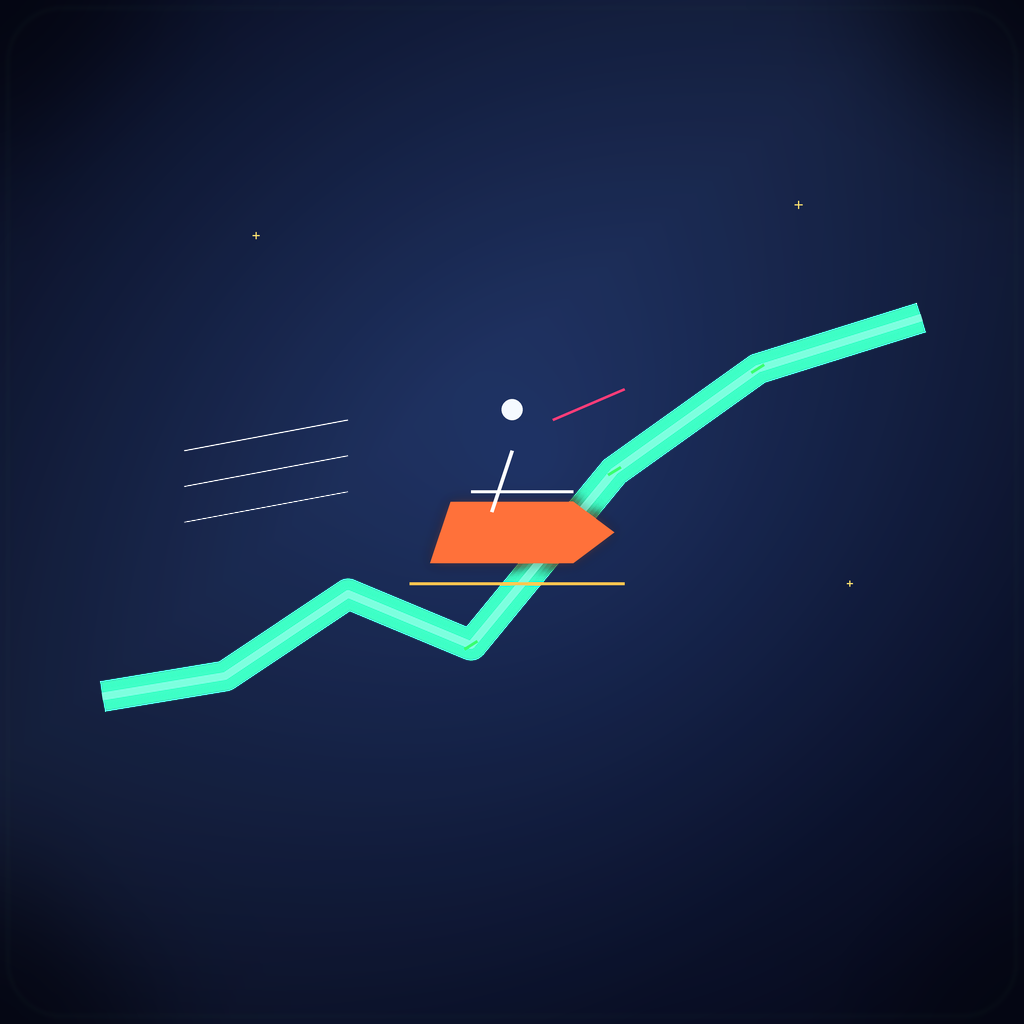
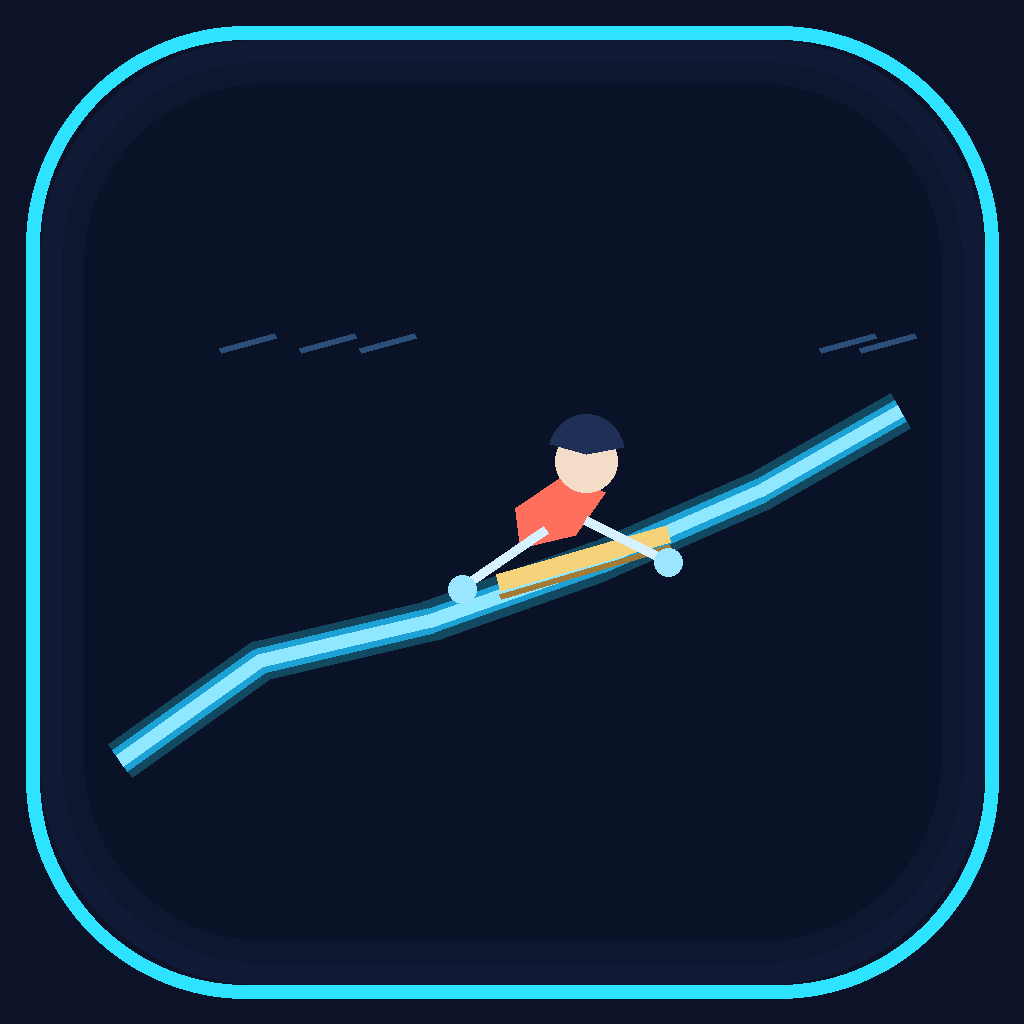
feat: add stalled-out fail state and refresh rider presentation
- Add 3-second grounded stall detection with 'Stalled Out!' message
- Expand rider sprite rendering with more explicit character silhouettes
- Reduce blob-like fallback appearance across the character roster
- Refresh app icon to show rider visibly riding the line

diff --git a/App.js b/App.js
@@ -36,6 +36,8 @@ const MINIMAP_W = 128;
 const MINIMAP_H = 92;
 const EDGE_PAN_MARGIN = 84;
 const EDGE_PAN_SPEED = 13;
+const STALL_SPEED_THRESHOLD = 0.16;
+const STALL_MILLISECONDS = 3000;
 
 const RIDER_TYPES = [
   {
@@ -336,6 +338,30 @@ function renderCharacterSprite(riderTypeId, cfg, motion = {}) {
           </G>
         </G>
       );
+    case 'snowboarder':
+      return (
+        <G>
+          <Line x1={-14} y1={7 + bob * 0.45} x2={14} y2={6.2 - bob * 0.2} stroke="#d6f5ff" strokeWidth={2.4} strokeLinecap="round" />
+          <G translateY={-bob * 0.75}>
+            <Path d="M-8,2 L8,3 L7,-3 L-7,-4 Z" fill={primary} />
+            <Circle cx={0} cy={-10} r={4.1} fill="#f2d8c1" />
+            <Path d="M-3,-13 C-1,-15 3,-15 5,-12" stroke="#2b3548" strokeWidth={1.9} fill="none" />
+            <Line x1={-5} y1={-1} x2={-11 + sway} y2={3} stroke={accent} strokeWidth={1.6} />
+            <Line x1={5} y1={-1} x2={11 - sway} y2={3} stroke={accent} strokeWidth={1.6} />
+          </G>
+        </G>
+      );
+    case 'sled':
+      return (
+        <G>
+          <Path d="M-14,8 C-11,4 1,3 14,6" stroke="#f8d480" strokeWidth={2.2} fill="none" />
+          <G translateY={-bob * 0.62}>
+            <Path d="M-10,4 C-7,1 2,1 10,2 C9,5 3,7 -8,8 Z" fill={primary} />
+            <Circle cx={-9} cy={2.4} r={2.4} fill="#f1d6bf" />
+            <Line x1={-3} y1={4} x2={8 - sway * 0.4} y2={6} stroke={accent} strokeWidth={1.6} />
+          </G>
+        </G>
+      );
     case 'comet':
       return (
         <G>
@@ -353,15 +379,14 @@ function renderCharacterSprite(riderTypeId, cfg, motion = {}) {
     case 'blaze':
       return (
         <G>
-          <Line x1={-15} y1={7.5} x2={14} y2={7.5} stroke="#8a8f98" strokeWidth={2.6} strokeLinecap="round" />
-          <Rect x={-12.5} y={4.4} width={5.5} height={3.2} rx={1.2} fill="#4d525b" />
-          <Rect x={8.3} y={4.4} width={4.2} height={3.2} rx={1.1} fill="#4d525b" />
-          <G translateY={-(suspension + bob * 0.3)}>
-            <Path d="M-15,5 L-6,-2 L8,-2 L14,3 L10,6 L-13,6 Z" fill="#1f2430" />
-            <Path d="M-3,-6 L5,-6 L9,-2 L-2,-2 Z" fill={primary} />
-            <Circle cx={0} cy={-10.5} r={4.3} fill="#f2d5bd" />
-            <Path d="M-2,-13 C0,-15 3,-15 5,-13" stroke="#2f3238" strokeWidth={2} fill="none" />
-            <Line x1={4} y1={-7} x2={10 - sway * 0.4} y2={-4 + airTilt * 0.2} stroke={accent} strokeWidth={1.7} />
+          <Line x1={-14} y1={6 + bob * 0.35} x2={15} y2={6 - bob * 0.18} stroke="#d0ae72" strokeWidth={2.2} strokeLinecap="round" />
+          <Line x1={-13} y1={8 + bob * 0.45} x2={14} y2={8 - bob * 0.22} stroke="#b38d58" strokeWidth={1.8} strokeLinecap="round" />
+          <G translateY={-bob * 0.88}>
+            <Path d="M-9,3 C-8,-3 -3,-7 4,-7 C10,-7 11,-1 9,4 Z" fill={primary} />
+            <Circle cx={1} cy={-10.8} r={4.3} fill="#f0cfb0" />
+            <Path d="M-2,-14 C1,-16 5,-16 7,-13" stroke="#5c3f2d" strokeWidth={2} fill="none" />
+            <Line x1={-4} y1={-2} x2={-11 + sway * 0.75} y2={3} stroke={accent} strokeWidth={1.7} />
+            <Line x1={6} y1={-2} x2={12 - sway * 0.75} y2={3} stroke={accent} strokeWidth={1.7} />
           </G>
         </G>
       );
@@ -378,13 +403,56 @@ function renderCharacterSprite(riderTypeId, cfg, motion = {}) {
           </G>
         </G>
       );
+    case 'dirtbike':
+      return (
+        <G>
+          <Line x1={-14} y1={8} x2={14} y2={8} stroke="#7a818b" strokeWidth={2.6} strokeLinecap="round" />
+          <Circle cx={-8} cy={8.2} r={2.2} fill="#3f4652" />
+          <Circle cx={9} cy={8.2} r={2.2} fill="#3f4652" />
+          <G translateY={-(suspension + bob * 0.28)}>
+            <Path d="M-12,5 L-4,-2 L7,-2 L12,3 L8,6 L-11,6 Z" fill="#222a35" />
+            <Path d="M-2,-5 L5,-5 L8,-2 L-1,-2 Z" fill={primary} />
+            <Circle cx={0.8} cy={-10} r={4.0} fill="#f2d5bd" />
+            <Line x1={3} y1={-6.5} x2={9 - sway * 0.35} y2={-3.5 + airTilt * 0.2} stroke={accent} strokeWidth={1.6} />
+          </G>
+        </G>
+      );
+    case 'car':
+      return (
+        <G>
+          <Line x1={-14} y1={8} x2={14} y2={8} stroke="#8f959d" strokeWidth={2.4} strokeLinecap="round" />
+          <Circle cx={-8.2} cy={8.1} r={2.6} fill="#3f4652" />
+          <Circle cx={8.7} cy={8.1} r={2.6} fill="#3f4652" />
+          <G translateY={-(suspension * 0.8 + bob * 0.18)}>
+            <Path d="M-13,4 L-6,-2 L8,-2 L13,3 L10,6 L-12,6 Z" fill={primary} />
+            <Path d="M-4,-2 L4,-2 L6,1 L-3,1 Z" fill="#d8ecff" />
+          </G>
+        </G>
+      );
+    case 'unicycle':
+      return (
+        <G>
+          <Circle cx={0} cy={8} r={5.8} fill="#3d424c" />
+          <Circle cx={0} cy={8} r={2.5} fill="#a2a9b6" />
+          <Line x1={0} y1={2.2} x2={0} y2={-6.5} stroke="#d9dce4" strokeWidth={1.6} />
+          <G translateY={-bob * 0.75}>
+            <Path d="M-4,-1 C-3,-5 1,-7 5,-6 C7,-3 6,1 3,3 Z" fill={primary} />
+            <Circle cx={1.2} cy={-10.4} r={3.8} fill="#f1d5bd" />
+            <Line x1={-1} y1={-2.5} x2={-7 + sway * 0.8} y2={2.5} stroke={accent} strokeWidth={1.5} />
+            <Line x1={3.5} y1={-2.5} x2={8 - sway * 0.8} y2={2.5} stroke={accent} strokeWidth={1.5} />
+          </G>
+        </G>
+      );
     default:
       return (
         <G>
-          <Polygon points="-10,2 12,2 14,-1 12,-4 -8,-4" fill={primary} />
-          <Line x1={-12} y1={RIDER_RADIUS - 2} x2={14} y2={RIDER_RADIUS - 2} stroke="#ffaa44" strokeWidth={2} />
-          <Circle cx={2} cy={-12} r={5} fill="white" />
-          <Line x1={2} y1={-7} x2={0} y2={-2} stroke="white" strokeWidth={2.5} />
+          <Line x1={-14} y1={6 + bob * 0.35} x2={14} y2={6 - bob * 0.2} stroke="#d2b57d" strokeWidth={2.1} strokeLinecap="round" />
+          <G translateY={-bob * 0.75}>
+            <Path d="M-8,2 L8,2 L9,-3 L-7,-4 Z" fill={primary} />
+            <Circle cx={1} cy={-10} r={4.1} fill="#f2d8c1" />
+            <Line x1={-3.5} y1={-1} x2={-10 + sway} y2={3} stroke={accent} strokeWidth={1.6} />
+            <Line x1={5} y1={-1} x2={10 - sway} y2={3} stroke={accent} strokeWidth={1.6} />
+          </G>
         </G>
       );
   }
@@ -425,6 +493,7 @@ function LineRider() {
   const [rider, setRider] = useState(null);
   const [trail, setTrail] = useState([]);
   const [crashed, setCrashed] = useState(false);
+  const [crashReason, setCrashReason] = useState('wipeout');
   const [ownedRiders, setOwnedRiders] = useState(['classic', 'snowboarder', 'sled']);
   const [activeRiderId, setActiveRiderId] = useState('classic');
   const [purchaseBusyId, setPurchaseBusyId] = useState(null);
@@ -443,6 +512,7 @@ function LineRider() {
   const riderRef = useRef(null);
   const linesRef = useRef(lines);
   const trailRef = useRef([]);
+  const stallSinceRef = useRef(null);
   const animRef = useRef(null);
   const frameCountRef = useRef(0);
 
@@ -780,6 +850,8 @@ function LineRider() {
       riderTypeId: activeRiderId,
     };
     trailRef.current = [];
+    stallSinceRef.current = null;
+    setCrashReason('wipeout');
     setCrashed(false);
     setPlaying(true);
   }, [activeRiderId, lines]);
@@ -789,8 +861,10 @@ function LineRider() {
     if (animRef.current) cancelAnimationFrame(animRef.current);
     riderRef.current = null;
     trailRef.current = [];
+    stallSinceRef.current = null;
     setRider(null);
     setTrail([]);
+    setCrashReason('wipeout');
     setCrashed(false);
   }, []);
 
@@ -862,7 +936,20 @@ function LineRider() {
 
         if (noViableLanding) {
           r.crashed = true;
+          setCrashReason('wipeout');
           setCrashed(true);
+        }
+
+        const movingSpeed = Math.hypot(r.vx, r.vy);
+        if (!r.crashed && grounded && movingSpeed < STALL_SPEED_THRESHOLD) {
+          if (!stallSinceRef.current) stallSinceRef.current = Date.now();
+          if (Date.now() - stallSinceRef.current >= STALL_MILLISECONDS) {
+            r.crashed = true;
+            setCrashReason('stalled');
+            setCrashed(true);
+          }
+        } else {
+          stallSinceRef.current = null;
         }
 
         trailRef.current.push({ x: r.x, y: r.y });
@@ -1193,7 +1280,7 @@ function LineRider() {
           {/* Crash overlay */}
           {crashed && (
             <View style={s.crashOverlay}>
-              <Text style={s.crashText}>WIPEOUT!</Text>
+              <Text style={s.crashText}>{crashReason === 'stalled' ? 'STALLED OUT!' : 'WIPEOUT!'}</Text>
               <TouchableOpacity onPress={stopPlay} style={s.retryBtn}>
                 <Text style={s.retryText}>TRY AGAIN</Text>
               </TouchableOpacity>
